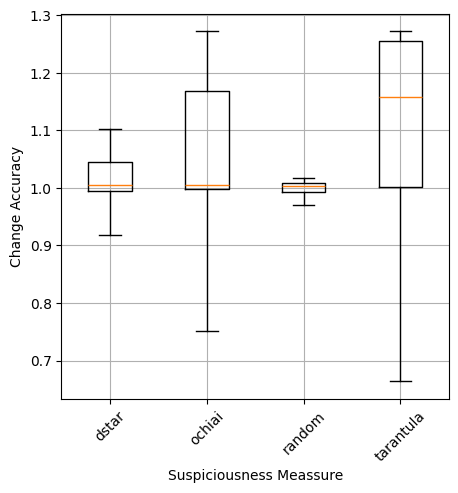
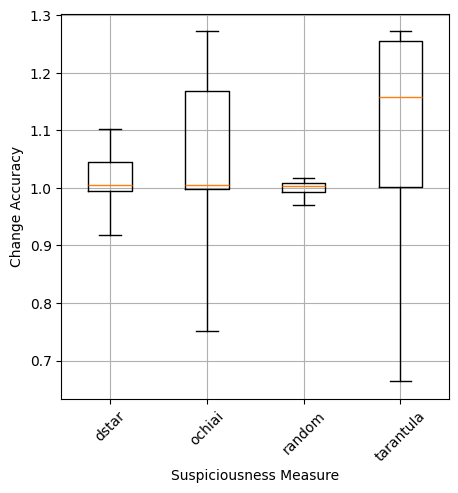
27.02.2024a

Changed region(s): [[0.3668, 0.9432, 0.7642, 0.9736]]

diff --git a/Bachelorarbeit/chapters/conclusion.tex b/Bachelorarbeit/chapters/conclusion.tex
@@ -1,0 +1,39 @@
+In the previous chapters, we introduced a new method for repairing Deep Neural Networks and Convolutional Neural Networks.
+This method uses a spectrum-based fault localization combined with network mutations to increase network accuracy and decrease network loss.
+First, we analyse the network to identify any faults.
+We then use these findings to apply our mutation function.
+If desired, we can train the network for an additional epoch.
+Finally, we evaluate the network again.
+If its performance has declined, we revert to the previous network.
+If its performance has improved, we keep the new network and repeat the process.
+
+During the first three epochs of our approach, we observed an increase in accuracy of up to 2--5\% for the first epoch and up to 11--25\% for untrained models.
+The first epoch showed a decrease of up to 10--40\%, and the third epoch showed a decrease of up to 25--40\% compared to our benchmark.
+However, there was no further increase in accuracy for subsequent epochs, only a decrease.
+
+If we further trained our models, we get an increase of up to 2.5-7.5\% for the accuracy and a decrease of up to 12--35\% for the loss.
+Here we also see a decrease after the third epoch, but we still stay over the baseline of one for the first 10–11 epochs.
+
+The approach performs best on the full Fashion-MNIST dataset and also good on the half data set.
+For our suspiciousness measures which we utilize for our fault localization, tarantula seems to be the best performing measure, for the trained models, the other measures aren't working significantly better than the random choosing of neurons.
+The exception is in the accuracy category for the non-trained models, the ochiai measure.
+Our Approach seems to be working best on Convolutional Neural Networks, in contrast, we only see a marginal increase for Deep Neural Networks.
+For our break conditions, we see no difference in the trained conditions for the trained runs, but we see one for the non-trained ones, where we see the worst performance which depends more on the loss, this holds even true for the loss.
+Important is also the use of an Offset for both loss and accuracy.
+Another factor that can be mitigated is the use of the different mutation functions, where we see that the mutation functions aren't leading to significantly different results, with the exception that the weight mutation function are leading to better results than the bias targeting mutation functions.
+
+In future research, it would be beneficial to investigate several aspects.
+Firstly, it is essential to evaluate the performance of the approach on larger models and different datasets.
+This will help to determine a threshold beyond which further modification of the neural network is not possible.
+For instance, this threshold could be defined as a ratio between the model's modifiable parameters and the modified parameters.
+Another thing that could be investigated in this instance is the choosing of multiple neurons at a time for the modification.
+
+Due to time constraints, we decided to use the static spectrum matrix for fault localization instead of investigating other critical options.
+A faster approach for generating the matrix should be considered.
+This would lead to the possibility to change a neuron, until another more suspicious neuron arises.
+
+One element which we also introduced due to the time constraints of this thesis is the regression for the loss and accuracy offset, to get a faster release of the break condition, hence getting runs with fewer epochs.
+So the behaviour without the offset would be interesting.
+
+Another possible area of investigation would be the suspiciousness measures, one point would be the usage of suspiciousness measures based on genetic programming which superiority in spectrum-based fault localisation regarding software was already shown by Yoo et al. \cite{yoo_human_2017} which could increase the right choosing of the neurons.
+Another endeavour worth exploring would be the dstar suspiciousness measure, which we used in combination with the star value of 3, hence the investigation of values different to 3 would be needed.

diff --git a/figures/SuspMeassure.py b/figures/SuspMeassure.py
@@ -11,7 +11,7 @@ plt.figure(figsize=(5, 5))
 labels_trained = [name for name, _ in df_trained]
 data_trained = [group['change_accuracy'].tolist() for name, group in df_trained]
 plt.boxplot(data_trained, labels=labels_trained, showfliers=False)
-plt.xlabel('Suspiciousness Meassure')
+plt.xlabel('Suspiciousness Measure')
 plt.ylabel('Change Accuracy')
 plt.xticks(rotation=45)  # Adjust rotation as needed
 plt.grid()
@@ -22,7 +22,7 @@ plt.figure(figsize=(5, 5))
 labels_not_trained = [name for name, _ in df_not_trained]
 data_not_trained = [group['change_accuracy'].tolist() for name, group in df_not_trained]
 plt.boxplot(data_not_trained, labels=labels_not_trained, showfliers=False)
-plt.xlabel('Suspiciousness Meassure')
+plt.xlabel('Suspiciousness Measure')
 plt.ylabel('Change Accuracy')
 plt.xticks(rotation=45)  # Adjust rotation as needed
 plt.grid()
@@ -33,7 +33,7 @@ plt.figure(figsize=(5, 5))
 labels_trained = [name for name, _ in df_trained]
 data_trained = [group['change_loss'].tolist() for name, group in df_trained]
 plt.boxplot(data_trained, labels=labels_trained, showfliers=False)
-plt.xlabel('Suspiciousness Meassure')
+plt.xlabel('Suspiciousness Measure')
 plt.ylabel('Change Loss')
 plt.xticks(rotation=45)  # Adjust rotation as needed
 plt.grid()
@@ -44,7 +44,7 @@ plt.figure(figsize=(5, 5))
 labels_not_trained = [name for name, _ in df_not_trained]
 data_not_trained = [group['change_loss'].tolist() for name, group in df_not_trained]
 plt.boxplot(data_not_trained, labels=labels_not_trained, showfliers=False)
-plt.xlabel('Suspiciousness Meassure')
+plt.xlabel('Suspiciousness Measure')
 plt.ylabel('Change Loss')
 plt.xticks(rotation=45)  # Adjust rotation as needed
 plt.grid()

diff --git a/Bachelorarbeit/Bachelorarbeit.tex b/Bachelorarbeit/Bachelorarbeit.tex
@@ -132,7 +132,7 @@ fill=green!30]
 \chapter{Results}\label{ch:results}
 \input{chapters/results.tex}
 
-\chapter{Conclusion}\label{ch:conclusion}
+\chapter{Conclusion and Future Work}\label{ch:conclusion}
 \input{chapters/conclusion.tex}
 \appendix
 \chapter{Source Code}\label{ch:source-code}
